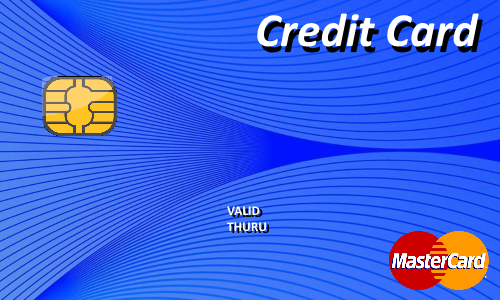
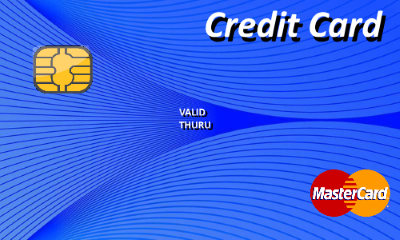
Make credit card smaller

diff --git a/src/components/ShoppingCart.vue b/src/components/ShoppingCart.vue
@@ -3,19 +3,26 @@
     v-flex(xs12)
       h1 Your Shopping Cart
 
-    v-flex(xs12)
-      p.
-        You have selected {{ selectedProducts.length }} products to purchase. Click
-        the 'Add' button below to add a new credit cart.
+    v-layout(v-if="isLoggedIn" row wrap)
+      v-flex(xs12)
+        p You have selected {{ selectedProducts.length }} products to purchase.
+        p You can use one of the existing credit cards:
 
-    v-flex(xs12)
-      app-credit-card-list
+      v-flex(xs12)
+        app-credit-card-list
 
-    v-flex(xs12 text-xs-center)
-      v-btn(large color="primary" @click.stop="dialog = true") Add Credit Card
+      v-flex(xs12 mt-3)
+        p Or, click the button below to add a new credit card:
 
-    v-dialog(v-model="dialog" full-width)
-      app-credit-card-form(@close="handleClose")
+      v-flex(xs12 text-xs-center)
+        v-btn(large color="primary" @click.stop="dialog = true") Add Credit Card
+
+      v-dialog(v-model="dialog" full-width)
+        app-credit-card-form(@close="handleClose")
+
+    v-layout(v-else)
+      v-flex(xs12)
+        p You must log in to be able to see the cart
 </template>
 
 <script lang="ts">
@@ -30,7 +37,7 @@ import AppCreditCardList from '@/components/CreditCardList.vue';
     AppCreditCardForm,
     AppCreditCardList,
   },
-  computed: mapGetters([Getters.selectedProducts]),
+  computed: mapGetters([Getters.selectedProducts, Getters.isLoggedIn]),
 })
 export default class AppShoppingCart extends Vue {
   private dialog = false;

diff --git a/src/components/CreditCard.vue b/src/components/CreditCard.vue
@@ -51,10 +51,10 @@ $text-shadow-size: 2px;
 .card-number {
   @extend .card-details;
   font-family: 'PT Mono', 'Courier New', Courier, monospace;
-  font-size: 29px;
-  left: 50px;
-  letter-spacing: 4px;
-  top: 142px;
+  font-size: 20px;
+  left: 115px;
+  letter-spacing: 2px;
+  top: 55px;
   font-weight: bold;
 }
 
@@ -70,9 +70,9 @@ $text-shadow-size: 2px;
 
 .card-date {
   @extend .card-details;
-  top: 200px;
-  left: 285px;
-  font-size: 25px;
+  top: 100px;
+  left: 230px;
+  font-size: 20px;
   font-weight: bold;
 }
 
@@ -88,10 +88,10 @@ $text-shadow-size: 2px;
 
 .card-name {
   @extend .card-details;
-  font-size: 35px;
+  font-size: 25px;
   font-style: italic;
-  top: 240px;
-  left: 50px;
+  top: 150px;
+  left: 30px;
 }
 
 .card-name-black {

diff --git a/src/components/CreditCardList.vue b/src/components/CreditCardList.vue
@@ -1,6 +1,6 @@
 <template lang="pug">
   v-flex(xs12 text-xs-center)
-    v-carousel(:cycle="false" dark hide-delimiters)
+    v-carousel(:cycle="false")
       app-credit-card(v-for="(c, i) in creditCards" :key="i" :card="c")
 </template>
 
@@ -20,11 +20,23 @@ export default class AppCreditCardList extends Vue {}
 </script>
 
 <style scoped lang="scss">
-$width: 500px;
+$width: 400px;
 
 .v-carousel {
   height: $width / 1.67;
   width: $width;
   margin: 0 auto;
+}
+
+.v-carousel__controls {
+  height: 25px;
+}
+
+.v-carousel__prev {
+  left: -10px;
+}
+
+.v-carousel__next {
+  right: -10px;
 }
 </style>
